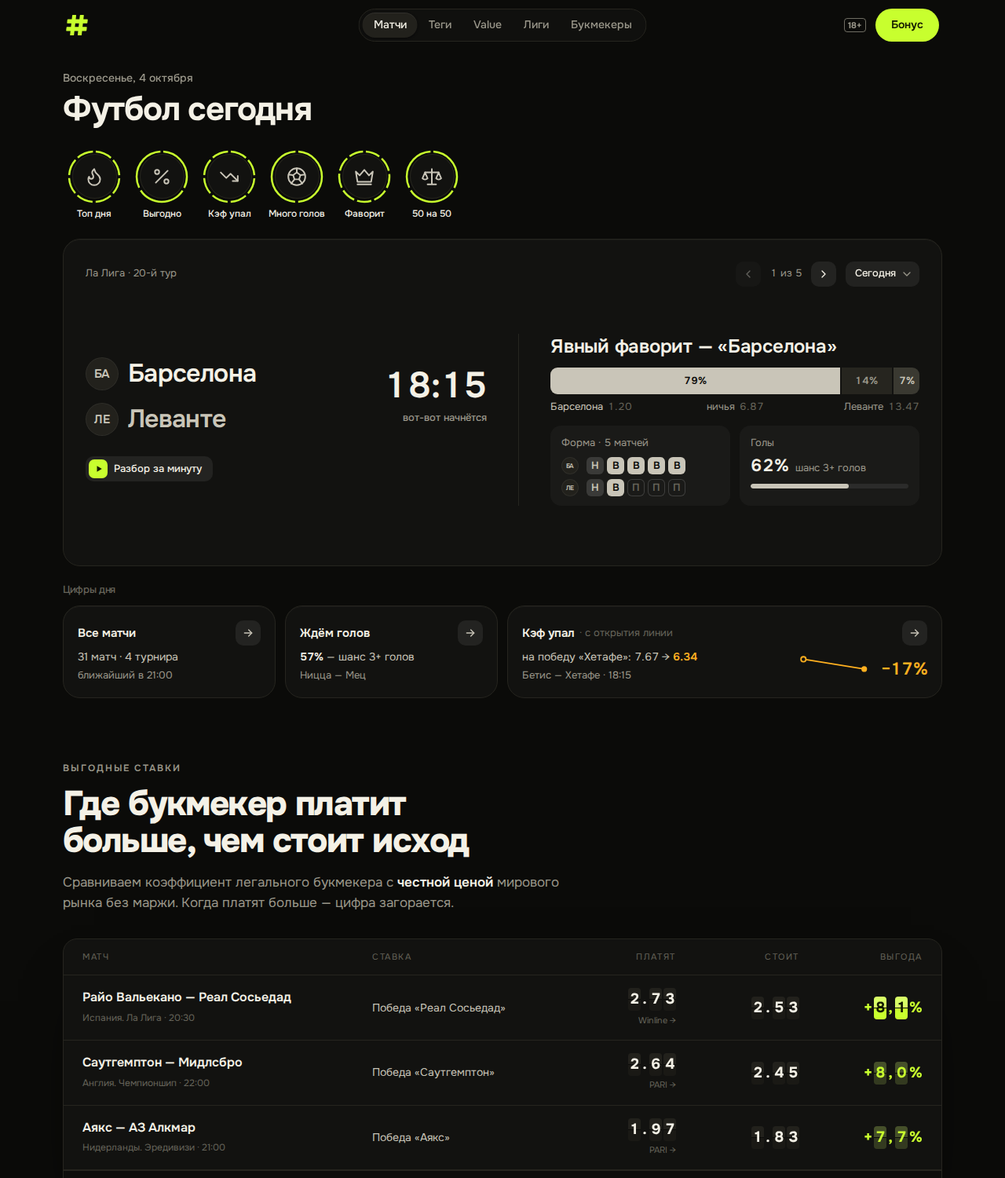
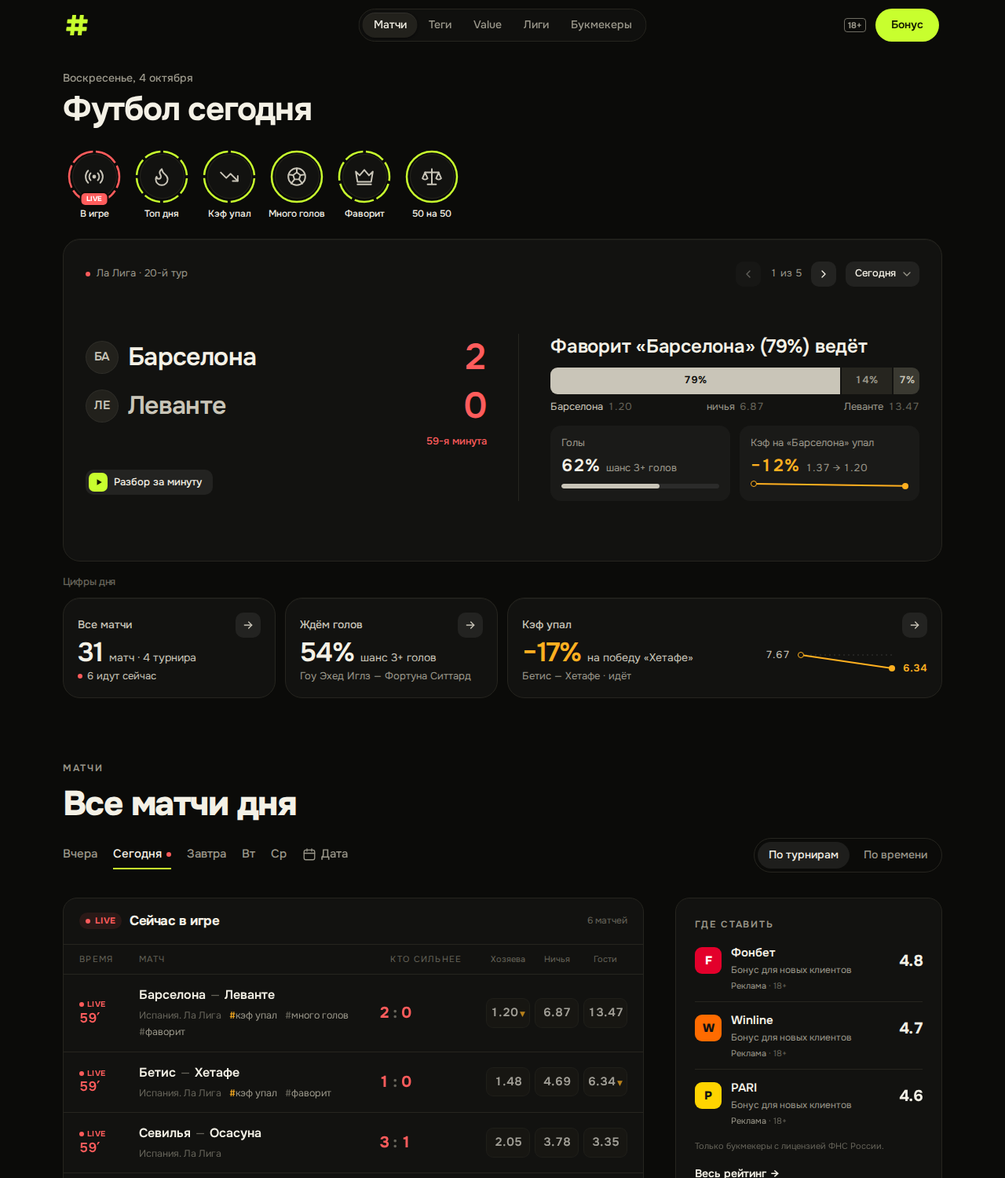
«Цифры дня»: крупная цифра со словами в каждой плитке, график «было → стало» с подписями
Плитки под «Главными матчами» были строками текста без главной цифры, а график в широкой
плитке висел отдельно от текста. Теперь у всех одна схема: тихое название со стрелкой в углу,
крупная цифра со словами рядом (цифры всех плиток на одной линии) и строка с матчем:
«31 матч · 4 турнира» и «6 идут сейчас» с красной точкой, «54% шанс 3+ голов», «−17% на победу
«Хетафе»» янтарём. В широкой плитке справа — «7.64 → 6.32» со значениями у самих точек
и пунктиром уровня открытия; на телефоне график под цифрой. Нет данных — простые слова.

Цифра растёт с высотой окна; отступ над «Цифрами дня» на 4px меньше, поэтому первый экран
не выше прежнего: влезает в 1280×720, 1440×760 и 1470×805, в том числе в худшем случае.

Claude-Session: https://claude.ai/code/session_01LqCxNKeCAKNwhNzoBsjYvY

diff --git a/components/DaySummary.tsx b/components/DaySummary.tsx
@@ -2,7 +2,7 @@ import Link from 'next/link'
 import { featuredInfo } from '@/config/leagues'
 import type { FeedItem } from '@/lib/data'
 import { goalsChance, navExamples, parseProgruz, type DaySummary as Summary, type ProgruzInfo } from '@/lib/day-summary'
-import { appNow, formatDayMonth, formatTime, pct, pluralN, todayYmd, ymdInTz } from '@/lib/format'
+import { appNow, formatDayMonth, formatTime, pct, plural, pluralN, todayYmd, ymdInTz } from '@/lib/format'
 import { matchHref } from '@/lib/links'
 import { fair1x2 } from '@/lib/odds'
 import { isLive } from '@/lib/rank'
@@ -381,41 +381,47 @@ function TopSlide({ it }: { it: FeedItem }) {
 // ─── Переходы под блоком ─────────────────────────────────────────────────────
 
 /**
- * Компактный переход в раздел: название, строка с цифрой и строка с матчем, стрелка. Списков матчей
- * внутри нет — они ниже, по прокрутке, и на страницах тегов. Все одной высоты; широкий («Кэф упал») — с графиком.
+ * Переход в раздел — плитка «Цифр дня»: название и стрелка, крупная цифра со словами рядом («31 матч · 4 турнира»,
+ * «54% шанс 3+ голов», «−17% на победу «X»») и строка с матчем. Цифры всех плиток — на одной линии, слова
+ * не мельче 14px; широкая плитка («Кэф упал») — с графиком справа. Нет цифры — только простые слова, без
+ * выдуманных чисел. Списков матчей внутри нет — они ниже, по прокрутке, и на страницах тегов.
  */
 function NavTile({
   title,
-  hint,
-  lead,
-  note,
   href,
-  live = false,
+  num,
+  tone = 'text-fg',
+  unit,
+  note,
   aside,
 }: {
   title: string
-  hint?: string
-  lead: React.ReactNode
-  note?: React.ReactNode
   href: string
-  live?: boolean
+  /** крупная цифра; нет — вместо неё простые слова (`unit`) */
+  num?: string | null
+  tone?: string
+  unit: React.ReactNode
+  note?: React.ReactNode
   aside?: React.ReactNode
 }) {
   return (
     <Link href={href} prefetch={false} className={`group flex h-full min-w-0 flex-col p-[18px] transition-colors hover:border-edge-2 ${CARD}`}>
-      {/* стрелка — в строке названия (в углу: сверху и справа поровну): так строкам с цифрой и матчем достаётся вся ширина */}
+      {/* стрелка — в строке названия (в углу: сверху и справа поровну); название тише цифры — главное в плитке цифра */}
       <span className="flex items-center justify-between gap-3">
-        <span className="flex min-w-0 items-center gap-1.5 text-[15px] font-semibold text-fg">
-          {live ? <span className="h-1.5 w-1.5 shrink-0 animate-pulse-live rounded-full bg-live" aria-hidden /> : null}
-          <span className="shrink-0">{title}</span>
-          {hint ? <span className="truncate text-[13px] font-normal text-mute">· {hint}</span> : null}
-        </span>
+        <span className="truncate text-[14px] font-medium text-chalk">{title}</span>
         <Go />
       </span>
-      <span className="mt-auto flex items-end gap-4 pt-1">
+      {/* цифра растёт с высотой окна (на большом мониторе у первого экрана есть запас), но в 1280×720 сводка
+          должна влезать целиком — отсюда плотные строки. Цифры без моноширинных начертаний: так «31 матч» плотнее */}
+      <span className="mt-auto flex flex-col gap-3 pt-0.5 sm:flex-row sm:items-center sm:gap-6">
         <span className="min-w-0 flex-1">
-          <span className="block truncate text-[14px] text-chalk">{lead}</span>
-          {note ? <span className="mt-0.5 block truncate text-[13px] text-dim">{note}</span> : null}
+          <span className="flex min-w-0 items-baseline gap-2">
+            {num ? (
+              <span className={`shrink-0 text-[28px] font-semibold leading-none tracking-[-0.03em] lg:text-[clamp(26px,3.5vh,34px)] ${tone}`}>{num}</span>
+            ) : null}
+            <span className="truncate text-[14px] leading-[18px] text-chalk">{unit}</span>
+          </span>
+          {note ? <span className="mt-1 flex min-w-0 items-center gap-1.5 text-[13px] leading-[18px] text-dim">{note}</span> : null}
         </span>
         {aside}
       </span>
@@ -424,28 +430,39 @@ function NavTile({
 }
 
 /**
- * «Было → стало» одного исхода: две точки — открытие линии и последнее значение. Истории по часам у нас
- * пока нет, поэтому кривой не рисуем: прямая между двумя честными точками, круче — сильнее падение.
- * Янтарь — цвет «кэф упал».
+ * «Было → стало» одного исхода: открытие линии и последнее значение, подписаны у самих точек. Истории по часам
+ * у нас пока нет, поэтому кривой не рисуем: прямая между двумя честными точками, круче — сильнее падение.
+ * Янтарь — цвет «кэф упал». На телефоне — под цифрой во всю ширину.
  */
-function DropChart({ drop }: { drop: number }) {
-  const y2 = 6 + Math.min(1, Math.max(0.25, drop / 0.35)) * 28
+function DropChart({ d }: { d: ProgruzInfo }) {
+  // высота графика и есть перепад: от 25% «шкалы» до полной при падении на 35% и больше
+  const h = 10 + Math.round(Math.min(1, Math.max(0.25, d.drop / 0.35)) * 30)
   return (
-    <span className="-mt-1 hidden shrink-0 items-center gap-3 sm:flex" aria-hidden>
-      <svg viewBox="0 0 96 40" className="h-9 w-24 overflow-visible">
-        <line x1="5" y1="6" x2="91" y2={y2} stroke="var(--color-hot)" strokeWidth="2" strokeLinecap="round" />
-        <circle cx="5" cy="6" r="3.5" fill="var(--color-panel)" stroke="var(--color-hot)" strokeWidth="2" />
-        <circle cx="91" cy={y2} r="4" fill="var(--color-hot)" />
-      </svg>
-      <span className="num text-[22px] font-semibold tracking-[-0.03em] text-hot">−{Math.round(drop * 100)}%</span>
+    <span
+      role="img"
+      aria-label={`Кэф был ${d.from.toFixed(2)}, стал ${d.to.toFixed(2)}`}
+      className="flex w-full shrink-0 items-stretch gap-2.5 sm:w-[min(15rem,40%)]"
+      style={{ height: h }}
+    >
+      <span className="num -mt-[5px] self-start text-[13px] leading-[18px] text-chalk">{d.from.toFixed(2)}</span>
+      <span className="relative min-w-0 flex-1" aria-hidden>
+        <svg viewBox="0 0 100 100" preserveAspectRatio="none" className="absolute inset-x-1 inset-y-1 h-[calc(100%-8px)] w-[calc(100%-8px)] overflow-visible">
+          {/* пунктир — уровень открытия: насколько ниже него кэф сейчас, видно и при небольшом падении */}
+          <line x1="0" y1="0" x2="100" y2="0" stroke="rgb(255 255 255 / 0.16)" strokeWidth="1" strokeDasharray="2 4" vectorEffect="non-scaling-stroke" />
+          <line x1="0" y1="0" x2="100" y2="100" stroke="var(--color-hot)" strokeWidth="2" strokeLinecap="round" vectorEffect="non-scaling-stroke" />
+        </svg>
+        <span className="absolute left-0 top-0 h-2 w-2 rounded-full border-[1.5px] border-hot bg-panel" />
+        <span className="absolute bottom-0 right-0 h-2 w-2 rounded-full bg-hot" />
+      </span>
+      <span className="num -mb-[5px] self-end text-[13px] font-semibold leading-[18px] text-hot">{d.to.toFixed(2)}</span>
     </span>
   )
 }
 
 /**
- * «Сводка дня» — первый экран: сверху «Главные матчи» (до пяти важных встреч, стрелки «1 из 4», чип дня
- * меняет только этот блок), под ним три перехода 1:1:2 — «Все матчи», «Ждём голов» и широкий «Кэф упал».
- * Кнопки и цифры под блоком — про день страницы.
+ * «Сводка дня» — первый экран: сверху «Главные матчи» (до пяти важных встреч, стрелки «1 из 5», чип дня
+ * меняет только этот блок), под ним «Цифры дня» — три перехода 1:1:2 с крупной цифрой: «Все матчи», «Ждём голов»
+ * и широкий «Кэф упал» с графиком. Кнопки и цифры под блоком — про день страницы.
  */
 export function DaySummary({
   s,
@@ -471,53 +488,43 @@ export function DaySummary({
         initial={initial}
         className={`lg:flex-1 ${CARD}`}
       />
-      {/* маленькая подпись над рядом — как «Топ-турниры» на странице лиг */}
-      <h2 className="mb-2.5 mt-5 text-[13px] font-medium text-mute lg:[@media(min-height:740px)_and_(max-height:799px)]:mt-4 lg:[@media(max-height:739px)]:mt-3">Цифры дня</h2>
+      {/* маленькая подпись над рядом — как «Топ-турниры» на странице лиг; к плиткам ближе, чем к блоку сверху */}
+      <h2 className="mb-2.5 mt-4 text-[13px] font-medium text-mute lg:[@media(min-height:740px)_and_(max-height:799px)]:mb-2 lg:[@media(min-height:740px)_and_(max-height:799px)]:mt-3 lg:[@media(max-height:739px)]:mt-3">
+        Цифры дня
+      </h2>
       <div className="grid gap-3 sm:grid-cols-2 lg:grid-cols-4">
         <NavTile
           title="Все матчи"
           href="#matches"
-          live={s.liveCount > 0}
-          lead={s.liveCount > 0 ? `${pluralN(s.liveCount, ['идёт', 'идут', 'идут'])} сейчас` : `${pluralN(s.total, MATCHES)} · ${pluralN(s.leagues, TOURNEYS)}`}
+          num={String(s.total)}
+          unit={`${plural(s.total, MATCHES)} · ${pluralN(s.leagues, TOURNEYS)}`}
           note={
-            s.liveCount > 0
-              ? `всего ${pluralN(s.total, MATCHES)} · ${pluralN(s.leagues, TOURNEYS)}`
-              : s.next
-                ? `ближайший в ${formatTime(s.next.match.ts)}`
-                : 'все сыграны — итоги в списке'
+            s.liveCount > 0 ? (
+              <>
+                <span className="h-1.5 w-1.5 shrink-0 animate-pulse-live rounded-full bg-live" aria-hidden />
+                <span className="truncate text-chalk">{pluralN(s.liveCount, ['идёт', 'идут', 'идут'])} сейчас</span>
+              </>
+            ) : (
+              <span className="truncate">{s.next ? `ближайший в ${formatTime(s.next.match.ts)}` : 'все сыграны — итоги в списке'}</span>
+            )
           }
         />
         <NavTile
           title="Ждём голов"
           href="/tag/tb-2-5"
-          lead={
-            g ? (
-              <>
-                <span className="num font-semibold text-fg">{pct(g.p)}</span> — шанс 3+ голов
-              </>
-            ) : (
-              'Подборка матчей на 3+ гола'
-            )
-          }
-          note={g ? pair(g.item) : undefined}
+          num={g ? pct(g.p) : null}
+          unit={g ? 'шанс 3+ голов' : 'Подборка матчей на 3+ гола'}
+          note={g ? <span className="truncate">{pair(g.item)}</span> : undefined}
         />
         <div className="min-w-0 sm:col-span-2">
           <NavTile
             title="Кэф упал"
-            hint="с открытия линии"
             href="/tag/progruz"
-            lead={
-              d ? (
-                <>
-                  на победу {team(d.item.match, d.side)}: <span className="num">{d.from.toFixed(2)}</span> →{' '}
-                  <span className="num font-semibold text-hot">{d.to.toFixed(2)}</span>
-                </>
-              ) : (
-                'Заметных падений кэфа нет'
-              )
-            }
-            note={d ? `${pair(d.item)} · ${when(d.item)}` : undefined}
-            aside={d ? <DropChart drop={d.drop} /> : null}
+            num={d ? `−${Math.round(d.drop * 100)}%` : null}
+            tone="text-hot"
+            unit={d ? `на победу ${team(d.item.match, d.side)}` : 'Заметных падений кэфа нет'}
+            note={d ? <span className="truncate">{`${pair(d.item)} · ${when(d.item)}`}</span> : undefined}
+            aside={d ? <DropChart d={d} /> : null}
           />
         </div>
       </div>

diff --git a/AGENTS.md b/AGENTS.md
@@ -20,7 +20,7 @@ This block is written and re-added by `next dev` — verify at `node_modules/nex
 - Демо без сети: `SSTATS_MOCK=1` (полосы над шапкой нет — только строка в подвале, `IS_MOCK` в `Footer.tsx`). Часы в демо стоят (всегда 4 октября 2026-го, 19:30 МСК; `SSTATS_MOCK=design` — то же самое): один и тот же день во всех состояниях, прогрев разбирает все матчи топ-лиг (и идущие — для графика «Форма»); так попросил владелец, пока идёт работа над виджетами. `SSTATS_MOCK_NOW` «переводит» часы демо — дальше время идёт. Часы сайта — только `appNow()` из `lib/format.ts` (их же берёт демо), не `Date.now()` там, где речь о времени матчей. Кэш демо на диск не пишется (`lib/cache.ts`), иначе старые данные без эмблем живут часами. Эмблемы в демо — `.data/team-logos.json` от `npm run team-logos` (`scripts/team-logos.mjs`: команды демо-лиг из `/Teams/list` по странам, ~11 запросов; читает `lib/sstats/team-logos.ts`, файл перечитывается при изменении); без файла — монограммы и подсказка в подвале. Проверки: `npm run typecheck`, `npm test`, `npm run build`.
 - «Матч в слайдах» (сторис): данные — `lib/story.ts` → `/api/story/[id]`, просмотр и графики — `components/story/`. Ссылки на матч в списках — через `StoryLink` (обычная ссылка для SEO, клик открывает сторис).
 - Кружки историй на главной: группы — `lib/story-groups.ts` (порядок по `lib/rank.ts`), ряд — `components/story/StoryCircles.tsx`, очередь передаётся в просмотрщик через `openStory({ queue })`. Просмотренные — в `localStorage` (`components/story/seen.ts`, ключ `tagbet:seen:v2`), только для колец и отдельно для каждого кружка (отметка «кружок:матч»): просмотр в одном кружке не гасит другие, открытия из списков и виджетов не считаются; сегменты гаснут по порядку от верха. Очередь по тапу и отметки повторов — `components/story/queue.ts` (тест `tests/story-queue.test.ts`). На главной — «В игре», «Топ дня» и до 5 главных тегов (`mainCircles`), подписи в одну строку, без решётки и с большой буквы («Кэф упал», «50 на 50» — `storyLabel` в `lib/story-groups.ts`), так же — в шапке просмотрщика; так решил владелец (раньше решётка была у всех кружков). У тегов в строках матчей, на страницах тегов и внутри слайдов решётка остаётся.
-- «Сводка дня» (первый экран главной): данные — `lib/day-summary.ts`, вид — `components/DaySummary.tsx` + `components/TopCarousel.tsx` (клиент). Сверху во всю ширину — «Главные матчи»: до 5 важных встреч дня (`mainMatches`: по важности турнира и команд — `prestige`, сначала по одной на лигу, идущие и предстоящие важнее сыгранных — сыгранные только когда впереди ничего нет; молодёжные, женские, перенесённые — мимо), листаются стрелками «1 из 5» (на телефоне — и свайпом), без автопрокрутки; лента со scroll-snap, без JS видны все матчи, высота — по самому высокому слайду. Подписи над карточкой нет — она и так понятна (владелец сравнил и оставил подпись только над рядом переходов: «Цифры дня», как «Топ-турниры» на странице лиг — 13px, `text-mute`). Шапка карточки: слева — турнир и тур матча на экране (красная точка — идёт), справа — стрелки (на телефоне — внизу, рядом с «Разбором за минуту») и чип дня, в углу сверху и справа поровну. Пустая шапка или подпись турнира, висящая над табло, владельцу показались некрасивыми. Чип («Вчера · Сегодня · Завтра», только на «Сегодня») меняет только сам блок — так решил владелец: истории, переходы под блоком и список остаются про день страницы; какой день открыт — видно на чипе; соседние дни — `peekMatchesByDate` (из кэша сразу, на холодном старте не дольше 1,5 с, иначе без них). Слайд — как карточка матча в спортивных приложениях; на компьютере в две колонки через тонкий разделитель: слева табло строками, как в Apple Sports — так предложил владелец: эмблема и название, хозяева сверху, гости снизу (название крупно, в одну строку даже у длинных; эмблема 30px, растёт с высотой окна до 42px), ярче — фаворит до матча, в игре и после — кто ведёт или победил (равные силы и ничья — обе яркие); справа время и под ним «через 40 мин» / дата, а после свистка — счёт у каждой команды (в игре красный) и под ним минута или «итог»; всё выровнено по левому краю вместе с шапкой и кнопками; справа — у всех слайдов одна схема «фраза → полоса шансов»: до матча — вывод словами (`buildVerdict`), во время игры и после — счёт глазами шансов до матча (`playedLine`: «Фаворит «X» (65%) ведёт», «Пока ничья, фаворит — «X» (65%)», «Ведёт «Y», хотя фаворит — «X» (65%)»; «Фаворит «X» (79%) выиграл», «Ничья: фаворит … не выиграл», «Сенсация: фаворит … проиграл», «Шансы были почти равны»), нейтральная полоса шансов в процентах (светлая часть — фаворит) с подписями исходов «хозяева · ничья · гости» и кэфами рядом (на телефоне кэф — строкой ниже) а под ней — до двух мини-графиков вместо фактов словами (`chartsFor`; владелец попросил «побольше графиков», текст в карточке казался нестильным): «Форма · 5 матчей» — последние результаты квадратами В/Н/П, свежий справа, монохромно без светофора (победа светлая, ничья серая, поражение пустая), команда — эмблемой (данные — `MatchSummary.form` из разбора матча, есть у разобранных прогревом), «Голы» — шанс 3+ голов крупно и полоска (`goalsChance`), «Кэф на «X» упал» — «−14%» янтарём, «2.84 → 2.43» и наклонная линия «было → стало» (`parseProgruz`); на телефоне графики столбиком. Нет ни одного графика — факты «почему» словами одной панелью (`Facts`, второй — от 800px высоты окна). По высоте окна на компьютере: от 800px — графики полностью, 740–799px — компактнее, ниже 740px — вместо графиков один факт словами (иначе 1280×720 не влезает); красную полосу «сыграно N из 90 минут» не возвращайте — минута и так видна под счётом, а полоса выглядела тревожно и некрасиво. «Разбор за минуту» и «Выгодно» (только выгодная ставка): на компьютере — под табло в самом слайде (вся карточка — ссылка на сторис, поэтому это подписи, а не кнопки; так у карточки нет отдельного нижнего ряда и сводка с подписями влезает в окно), на телефоне и планшете — под лентой («Выгодно» строкой выше). Под блоком — три перехода 1:1:2 (`NavTile`): «Все матчи» → `#matches` (сколько идёт сейчас / всего матчей и турниров / ближайший), «Ждём голов» → `/tag/tb-2-5` («54% — шанс 3+ голов» и матч) и широкий «Кэф упал» → `/tag/progruz` («на победу «X»: 2.32 → 1.94», «с открытия линии», `DropChart` — две точки «было → стало» и «−16%» янтарём; кривой нет, пока нет настоящей истории кэфов — история PARI отдельным шагом). Примеры — `navExamples`: сначала ещё не начавшиеся матчи (не матч дня, по возможности разные — `dayStats`), иначе идущий (падение до начала — уже факт); нет данных — простые слова («Заметных падений кэфа нет»), без выдуманных цифр. Стрелка — в строке названия, в углу. «Проверка шансов» с первого экрана ушла: полный график «давали — сбылось» — на `/about#proverka` (`components/ChanceChart.tsx`: столбик — сбылось, белая черта — давали, монохромно, подсказка при наведении/тапе/стрелках; корзины «около 10% … 90%»). Расчёт — `lib/chance-check.ts` (исходы 1X2 сыгранных «взрослых» матчей, шансы — кэфы перед матчем без маржи, итог — по основному времени; корзина меньше 30 исходов не показывается, всего меньше 300 — графика нет), данные — `getChanceCheck` в `lib/data.ts` (30 дней до сегодня; итоги дня кэшируются отдельно и надолго, `/about` ждёт `peekChanceCheck` не дольше 1,5 с, остальное считает прогрев). Не возвращайте виджет «сколько бы заработали» в рублях: крупное «+8 160 ₽, если ставить по 1000 ₽» читается как «ставки — заработок» (ст. 27 закона «О рекламе»), владелец выбрал проценты; и «Фавориты вчера» (кто выиграл, без сравнения с шансом) — тоже нет. История: «одна цифра + один матч» с подписями «к честной цене» и плиткой «Первый матч 14:30» владелец счёл неинформативной, списки по 3 матча в плитках — каталогом, понравилось «большие цифры или график»; схему «высокий «Матч дня» слева, плитки справа» сравнил и выбрал широкий блок сверху и ряд под ним; без главного блока сводка («Главное за день») не понравилась. Не возвращайте ни списки в плитках, ни цифры без простых слов рядом, и не убирайте «Главные матчи». Всё тёмное, цвет — только у цифр и выделенной команды: лайм — выгодно, янтарь — кэф упал, красный — live; текст не мельче 13px, без колец-диаграмм (похожи на значок загрузки). Выбор дня — у списка «Все матчи дня»: `DateTabs` (Вчера · Сегодня · Завтра · дальше день недели без числа; красная точка у «Сегодня», пока идут матчи — `liveToday` из `DayView`) + календарь `DatePicker` (±1 год / +2 месяца), ведут сразу к списку (`#matches`). Порядок «Все матчи дня» — переключатель «По турнирам / По времени» ссылками `?sort=time` (без JS, canonical прежний; `TimeBlock` — по часам, с турниром в строке); на прошедших днях переключателя нет — там порядок по турнирам, главные результаты первыми. Первый экран главной (шапка, кружки, сводка) на компьютере занимает всё окно: обёртка в `DayView` — `lg:min-h-[min(calc(100svh-7rem),50rem)]`, сводка — `lg:flex-1` и внутри flex-колонка: ряд переходов — по содержимому, вся лишняя высота — «Главным матчам» (`lg:flex-1`; не делайте строки grid с `fr` — в intrinsic-проходе они раздуваются), табло растёт с высотой окна (`clamp(…vh…)`), на невысоком окне (до 739px) отступы над сводкой и внутри «Главных матчей» меньше, эмблемы — 44px, а «Все матчи дня» начинаются ниже, по прокрутке. Сводка должна влезать целиком в 1280×720, 1440×760 и 1470×805 — и в худшем случае (длинные названия и факт в две строки), а заголовок «Матчи» — не выглядывать снизу; проверяйте замером. На прошедших днях сводки нет, и список идёт сразу под заголовком страницы (без второго заголовка).
+- «Сводка дня» (первый экран главной): данные — `lib/day-summary.ts`, вид — `components/DaySummary.tsx` + `components/TopCarousel.tsx` (клиент). Сверху во всю ширину — «Главные матчи»: до 5 важных встреч дня (`mainMatches`: по важности турнира и команд — `prestige`, сначала по одной на лигу, идущие и предстоящие важнее сыгранных — сыгранные только когда впереди ничего нет; молодёжные, женские, перенесённые — мимо), листаются стрелками «1 из 5» (на телефоне — и свайпом), без автопрокрутки; лента со scroll-snap, без JS видны все матчи, высота — по самому высокому слайду. Подписи над карточкой нет — она и так понятна (владелец сравнил и оставил подпись только над рядом переходов: «Цифры дня», как «Топ-турниры» на странице лиг — 13px, `text-mute`). Шапка карточки: слева — турнир и тур матча на экране (красная точка — идёт), справа — стрелки (на телефоне — внизу, рядом с «Разбором за минуту») и чип дня, в углу сверху и справа поровну. Пустая шапка или подпись турнира, висящая над табло, владельцу показались некрасивыми. Чип («Вчера · Сегодня · Завтра», только на «Сегодня») меняет только сам блок — так решил владелец: истории, переходы под блоком и список остаются про день страницы; какой день открыт — видно на чипе; соседние дни — `peekMatchesByDate` (из кэша сразу, на холодном старте не дольше 1,5 с, иначе без них). Слайд — как карточка матча в спортивных приложениях; на компьютере в две колонки через тонкий разделитель: слева табло строками, как в Apple Sports — так предложил владелец: эмблема и название, хозяева сверху, гости снизу (название крупно, в одну строку даже у длинных; эмблема 30px, растёт с высотой окна до 42px), ярче — фаворит до матча, в игре и после — кто ведёт или победил (равные силы и ничья — обе яркие); справа время и под ним «через 40 мин» / дата, а после свистка — счёт у каждой команды (в игре красный) и под ним минута или «итог»; всё выровнено по левому краю вместе с шапкой и кнопками; справа — у всех слайдов одна схема «фраза → полоса шансов»: до матча — вывод словами (`buildVerdict`), во время игры и после — счёт глазами шансов до матча (`playedLine`: «Фаворит «X» (65%) ведёт», «Пока ничья, фаворит — «X» (65%)», «Ведёт «Y», хотя фаворит — «X» (65%)»; «Фаворит «X» (79%) выиграл», «Ничья: фаворит … не выиграл», «Сенсация: фаворит … проиграл», «Шансы были почти равны»), нейтральная полоса шансов в процентах (светлая часть — фаворит) с подписями исходов «хозяева · ничья · гости» и кэфами рядом (на телефоне кэф — строкой ниже) а под ней — до двух мини-графиков вместо фактов словами (`chartsFor`; владелец попросил «побольше графиков», текст в карточке казался нестильным): «Форма · 5 матчей» — последние результаты квадратами В/Н/П, свежий справа, монохромно без светофора (победа светлая, ничья серая, поражение пустая), команда — эмблемой (данные — `MatchSummary.form` из разбора матча, есть у разобранных прогревом), «Голы» — шанс 3+ голов крупно и полоска (`goalsChance`), «Кэф на «X» упал» — «−14%» янтарём, «2.84 → 2.43» и наклонная линия «было → стало» (`parseProgruz`); на телефоне графики столбиком. Нет ни одного графика — факты «почему» словами одной панелью (`Facts`, второй — от 800px высоты окна). По высоте окна на компьютере: от 800px — графики полностью, 740–799px — компактнее, ниже 740px — вместо графиков один факт словами (иначе 1280×720 не влезает); красную полосу «сыграно N из 90 минут» не возвращайте — минута и так видна под счётом, а полоса выглядела тревожно и некрасиво. «Разбор за минуту» и «Выгодно» (только выгодная ставка): на компьютере — под табло в самом слайде (вся карточка — ссылка на сторис, поэтому это подписи, а не кнопки; так у карточки нет отдельного нижнего ряда и сводка с подписями влезает в окно), на телефоне и планшете — под лентой («Выгодно» строкой выше). Под блоком — «Цифры дня»: три перехода 1:1:2 (`NavTile`) с одной схемой: тихое название (14px) со стрелкой в углу, крупная цифра со словами рядом — цифры всех плиток на одной линии — и строка с матчем. Прежние плитки из одних строк текста (без главной цифры, график висел отдельно от текста) владельцу показались «стрёмными» — не возвращайте. «Все матчи» → `#matches` («31 матч · 4 турнира», ниже красная точка «6 идут сейчас» или «ближайший в 21:00»), «Ждём голов» → `/tag/tb-2-5` («54% шанс 3+ голов» и матч) и широкий «Кэф упал» → `/tag/progruz` («−17%» янтарём «на победу «X»», матч и справа `DropChart`: «7.64 ○—● 6.32», значения подписаны у точек, пунктир — уровень открытия, круче — сильнее падение; кривой нет, пока нет настоящей истории кэфов — история PARI отдельным шагом; на телефоне график под цифрой). Цифра растёт с высотой окна (`clamp(26px,3.5vh,34px)`), строки плотные, иначе сводка не влезает в 1280×720. Примеры — `navExamples`: сначала ещё не начавшиеся матчи (не матч дня, по возможности разные — `dayStats`), иначе идущий (падение до начала — уже факт); нет данных — простые слова («Заметных падений кэфа нет»), без выдуманных цифр. Стрелка — в строке названия, в углу (сверху и справа поровну). «Проверка шансов» с первого экрана ушла: полный график «давали — сбылось» — на `/about#proverka` (`components/ChanceChart.tsx`: столбик — сбылось, белая черта — давали, монохромно, подсказка при наведении/тапе/стрелках; корзины «около 10% … 90%»). Расчёт — `lib/chance-check.ts` (исходы 1X2 сыгранных «взрослых» матчей, шансы — кэфы перед матчем без маржи, итог — по основному времени; корзина меньше 30 исходов не показывается, всего меньше 300 — графика нет), данные — `getChanceCheck` в `lib/data.ts` (30 дней до сегодня; итоги дня кэшируются отдельно и надолго, `/about` ждёт `peekChanceCheck` не дольше 1,5 с, остальное считает прогрев). Не возвращайте виджет «сколько бы заработали» в рублях: крупное «+8 160 ₽, если ставить по 1000 ₽» читается как «ставки — заработок» (ст. 27 закона «О рекламе»), владелец выбрал проценты; и «Фавориты вчера» (кто выиграл, без сравнения с шансом) — тоже нет. История: «одна цифра + один матч» с подписями «к честной цене» и плиткой «Первый матч 14:30» владелец счёл неинформативной, списки по 3 матча в плитках — каталогом, понравилось «большие цифры или график»; схему «высокий «Матч дня» слева, плитки справа» сравнил и выбрал широкий блок сверху и ряд под ним; без главного блока сводка («Главное за день») не понравилась. Не возвращайте ни списки в плитках, ни цифры без простых слов рядом, и не убирайте «Главные матчи». Всё тёмное, цвет — только у цифр и выделенной команды: лайм — выгодно, янтарь — кэф упал, красный — live; текст не мельче 13px, без колец-диаграмм (похожи на значок загрузки). Выбор дня — у списка «Все матчи дня»: `DateTabs` (Вчера · Сегодня · Завтра · дальше день недели без числа; красная точка у «Сегодня», пока идут матчи — `liveToday` из `DayView`) + календарь `DatePicker` (±1 год / +2 месяца), ведут сразу к списку (`#matches`). Порядок «Все матчи дня» — переключатель «По турнирам / По времени» ссылками `?sort=time` (без JS, canonical прежний; `TimeBlock` — по часам, с турниром в строке); на прошедших днях переключателя нет — там порядок по турнирам, главные результаты первыми. Первый экран главной (шапка, кружки, сводка) на компьютере занимает всё окно: обёртка в `DayView` — `lg:min-h-[min(calc(100svh-7rem),50rem)]`, сводка — `lg:flex-1` и внутри flex-колонка: ряд переходов — по содержимому, вся лишняя высота — «Главным матчам» (`lg:flex-1`; не делайте строки grid с `fr` — в intrinsic-проходе они раздуваются), табло растёт с высотой окна (`clamp(…vh…)`), на невысоком окне (до 739px) отступы над сводкой и внутри «Главных матчей» меньше, эмблемы — 44px, а «Все матчи дня» начинаются ниже, по прокрутке. Сводка должна влезать целиком в 1280×720, 1440×760 и 1470×805 — и в худшем случае (длинные названия и факт в две строки), а заголовок «Матчи» — не выглядывать снизу; проверяйте замером. На прошедших днях сводки нет, и список идёт сразу под заголовком страницы (без второго заголовка).
 - Шапка (логотип — только наклонная лаймовая решётка `LogoMark`, 26 px в шапке и 28 в подвале, без надписи «tag.bet» — так решил владелец; знак — `components/logo-paths.ts` из `public/brand/mark.svg`; без подложки): `components/Header.tsx` + `HeaderShell.tsx` (стекло после прокрутки) + `NavCapsule.tsx` (меню-капсула; раздел по адресу — `activeNav`).
 - Кнопки и чипы сводки (чип дня, стрелки «1 из 5», стрелка `Go`, «Разбор за минуту», «Выгодно»; общие классы — `components/Chips.tsx`) — скруглённые прямоугольники (углы 10px, меню — 14px), мягкая заливка без обводки, высота 32px (владелец решил сделать их крупнее); капсулой остаётся только меню в шапке. Отступ карточек сводки — 18px со всех сторон; у большой карточки «Главных матчей» на компьютере больше — 28px (на окне 740–799px — 24px, ниже — 20px): владельцу табло казалось прижатым к краю. В углу (стрелка плитки, чип дня) сверху и справа поровну — проверяйте замером.
 - Цвета по смыслу: лайм — «цена выше честной» (сила перевеса — яркостью лайма, `edgeTone` в `components/Flaps.tsx`), янтарь — прогруз, красный — live. Светофор не используем.

diff --git a/README.md b/README.md
@@ -40,9 +40,9 @@
   и под ним «Разбор за минуту» и «Выгодно», справа —
   фраза (до матча — вывод, в игре — «Фаворит «Бетис» (65%) ведёт»), полоса шансов с подписями исходов и
   кэфами и под ней мини-графики: форма команд квадратами В/Н/П, шанс 3+ голов полоской, падение кэфа
-  «было → стало» (нет данных — факты словами). Ниже, под маленькой подписью «Цифры дня» (как «Топ-турниры» на странице лиг), — три перехода 1:1:2: «Все матчи» (сколько идёт сейчас), «Ждём
-  голов» (пример: «54% — шанс 3+ голов» и матч) и широкий «Кэф упал» («на победу «Хетафе»: 7.67 → 6.34» с
-  открытия линии, две точки «было → стало» и «−17%»). «Проверка шансов» — сбываются ли проценты сайта — на
+  «было → стало» (нет данных — факты словами). Ниже, под маленькой подписью «Цифры дня» (как «Топ-турниры» на странице лиг), — три перехода 1:1:2 с крупной цифрой и словами рядом:
+  «Все матчи» («31 матч · 4 турнира», «6 идут сейчас»), «Ждём голов» («54% шанс 3+ голов» и матч) и широкий
+  «Кэф упал» («−17% на победу «Хетафе»» и график «7.64 → 6.32» с открытия линии). «Проверка шансов» — сбываются ли проценты сайта — на
   «Как мы считаем» (`/about#proverka`, `lib/chance-check.ts`). Ниже, по прокрутке, — таблица «Выгодные
   ставки» и «Все матчи дня»: по турнирам (топ-лиги первыми), live-счёт; в строке матча — вывод словами
   («Скорее выиграет «X»»), полоса «кто сильнее», кэфы на хозяев · ничью · гостей с отметкой падения,
